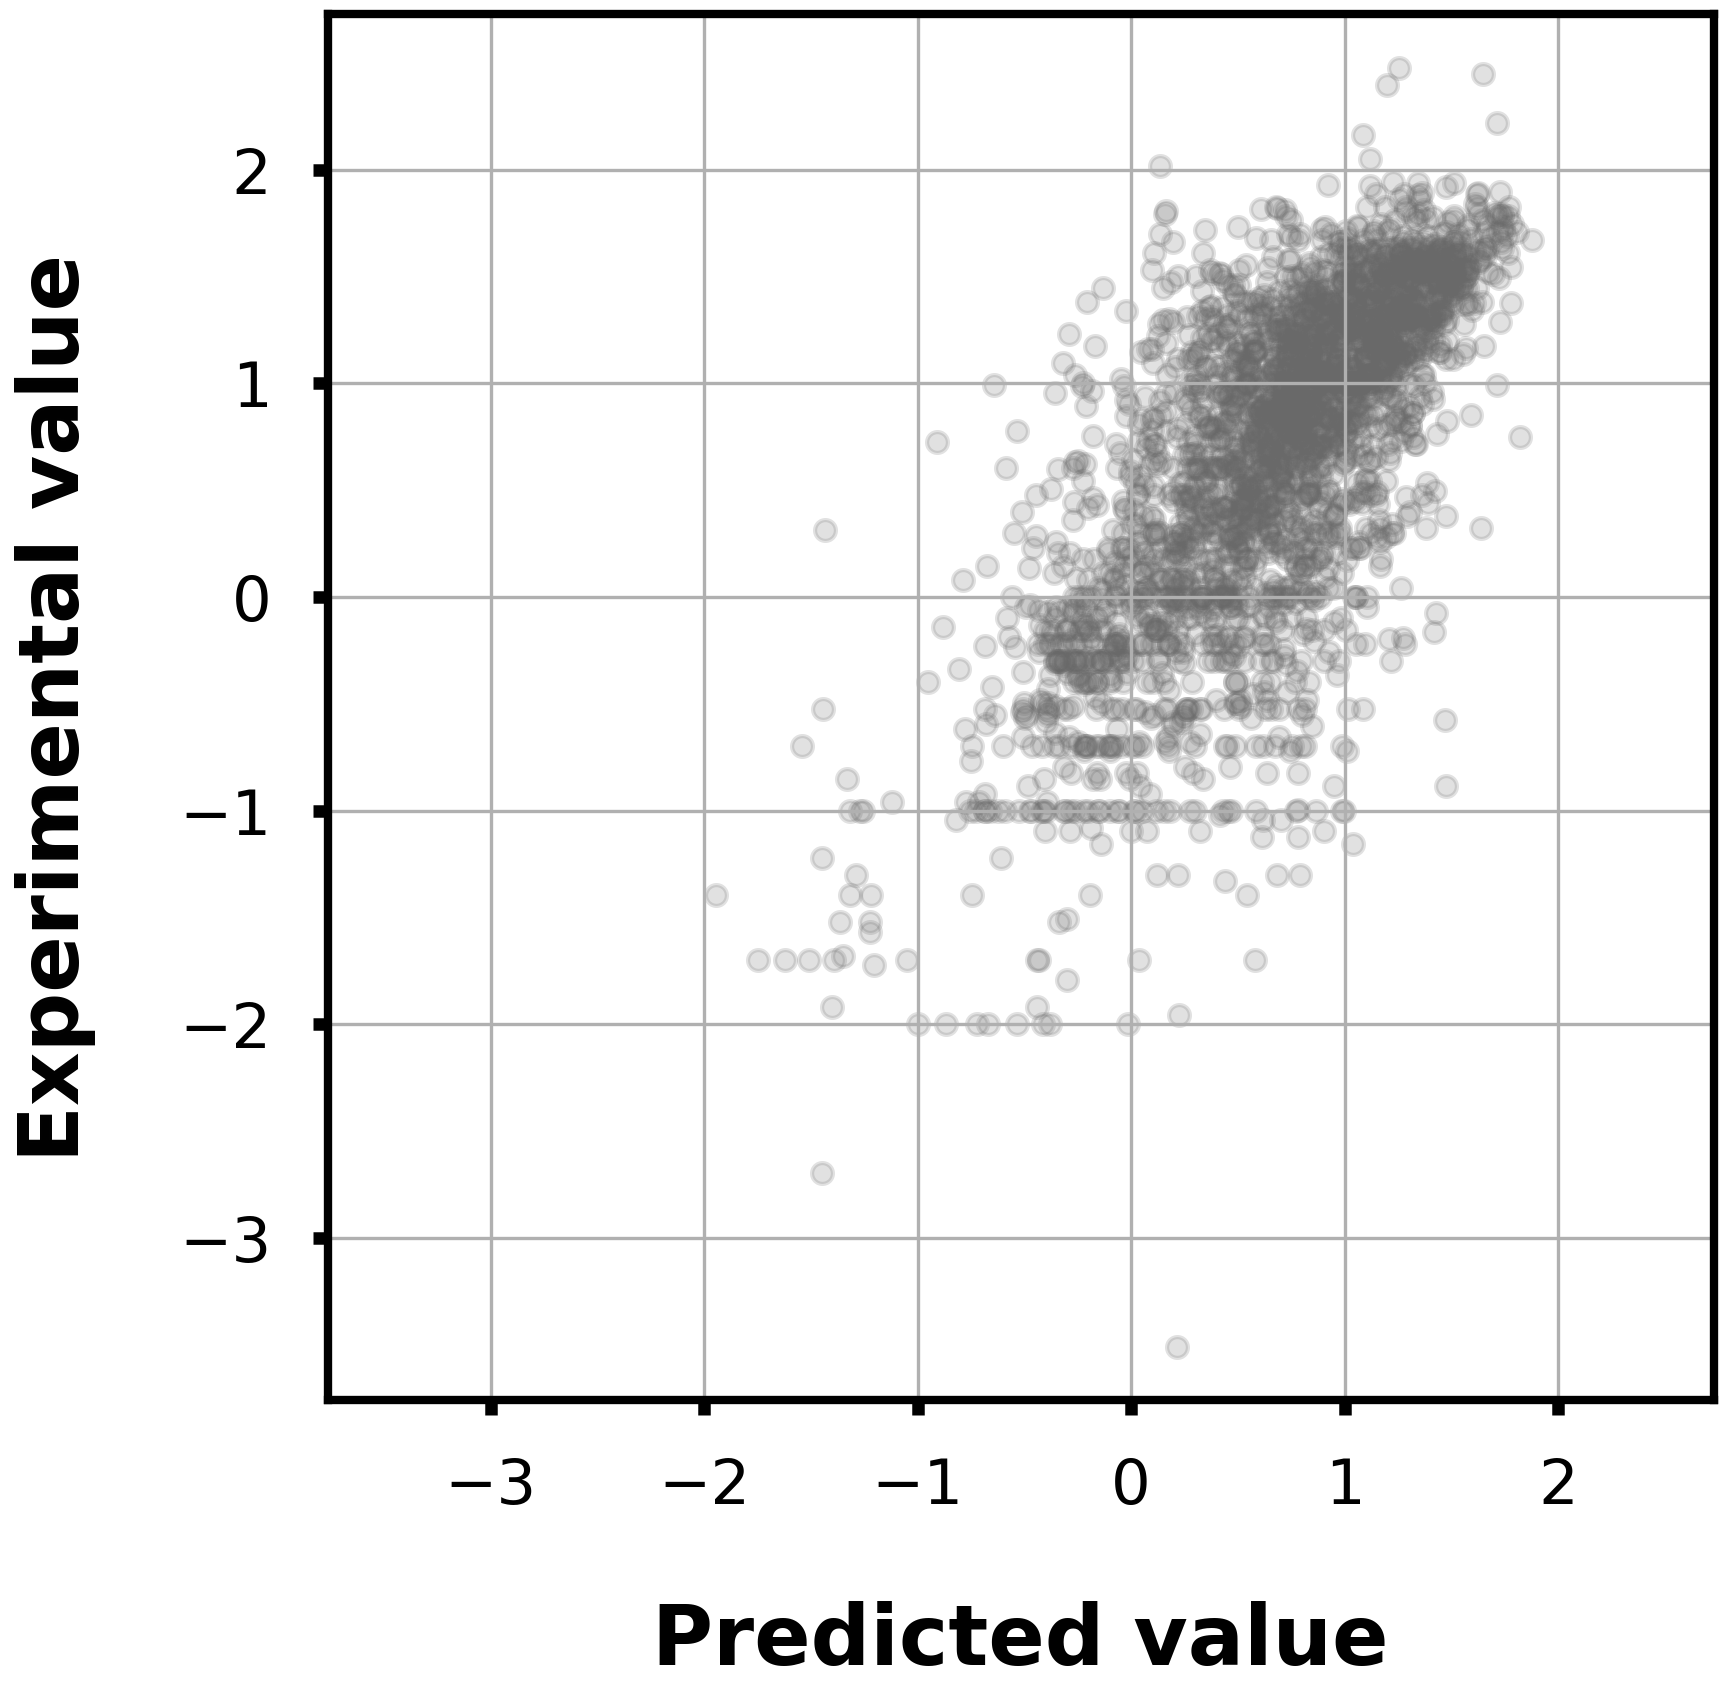
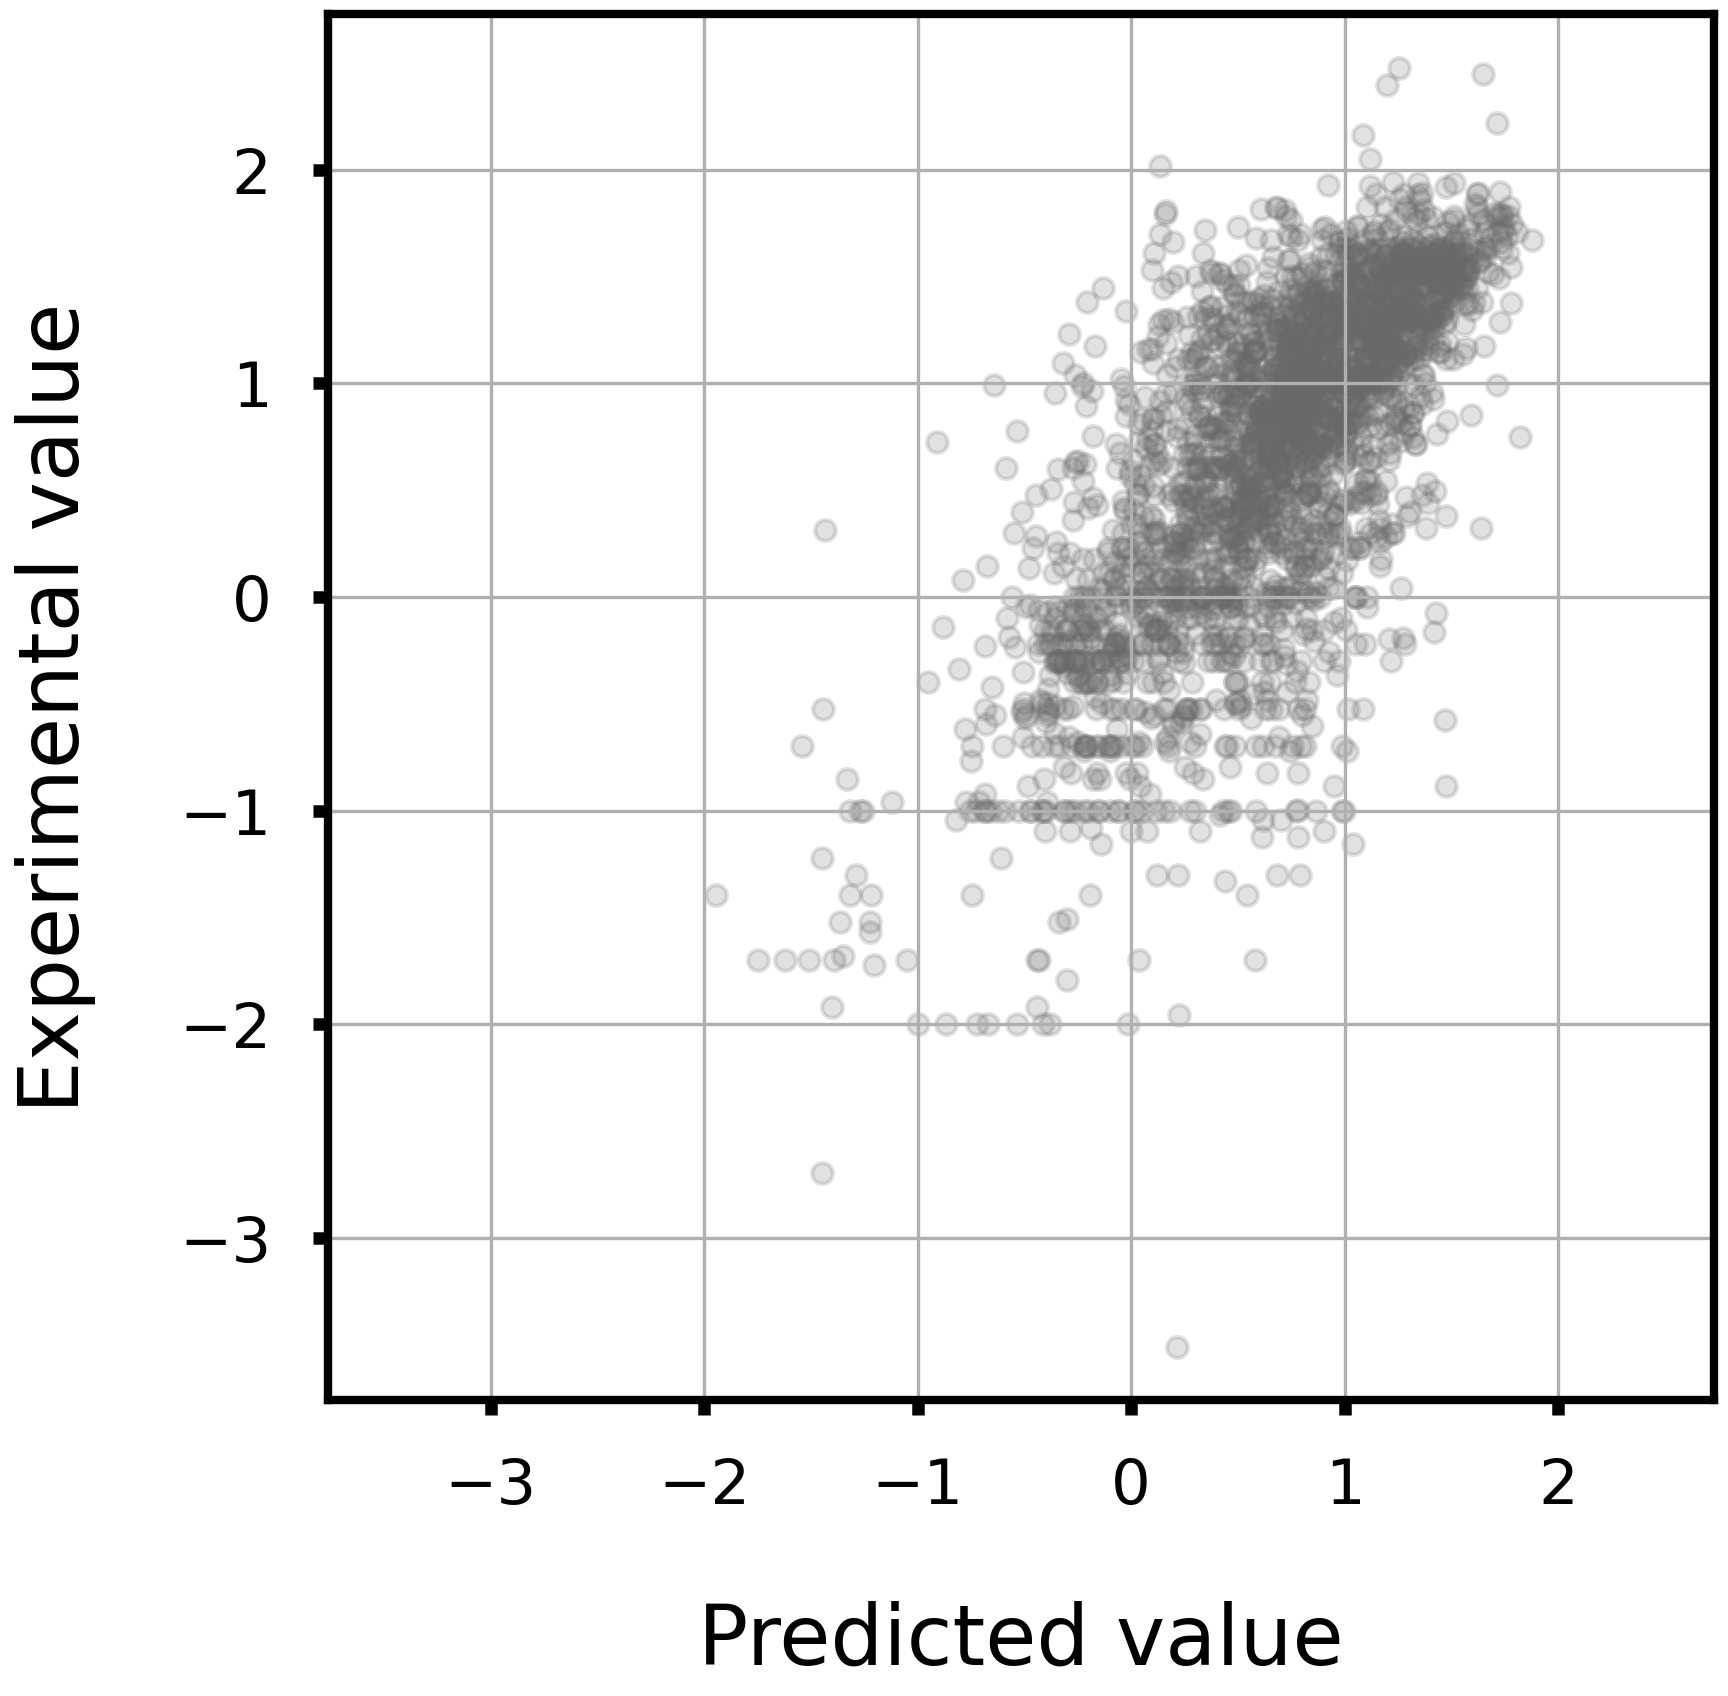
style: edit axis label name and weight

Changed region(s): [[0.0, 0.1562, 0.0625, 0.6875], [0.375, 0.9375, 0.8125, 1.0]]

diff --git a/ADMET/TDC/Toxicity/Acute_Toxicity_LD50/make_scatter_plot.py b/ADMET/TDC/Toxicity/Acute_Toxicity_LD50/make_scatter_plot.py
@@ -16,8 +16,8 @@ def make_scatter_plot(y_true, y_pred):
     min_val = min(min(y_true, y_pred, key=min))
     fig, ax = plt.subplots(figsize=(6, 6))
     ax.scatter(y_pred, y_true, marker='o', s=25, c='dimgray', alpha=0.2)
-    ax.set_xlabel('Predicted value', fontsize=20, labelpad=20, weight='bold')
-    ax.set_ylabel('Experimental value', fontsize=20, labelpad=20, weight='bold')
+    ax.set_xlabel('Predicted $\mathrm{LD_{50}}$', fontsize=20, labelpad=20, weight='normal')
+    ax.set_ylabel('Experimental $\mathrm{LD_{50}}$', fontsize=20, labelpad=20, weight='normal')
     ax.xaxis.set_tick_params(direction='out', labelsize=15, width=3, pad=10)
     ax.yaxis.set_tick_params(direction='out', labelsize=15, width=3, pad=10)
     ax.xaxis.set_major_locator(mpl.ticker.MultipleLocator(2))

diff --git a/ADMET/ChEMBL/Metabolism/HLM/make_scatter_plot.py b/ADMET/ChEMBL/Metabolism/HLM/make_scatter_plot.py
@@ -15,8 +15,8 @@ def make_scatter_plot(y_true, y_pred):
     min_val = min(min(y_true, y_pred, key=min))
     fig, ax = plt.subplots(figsize=(6, 6))
     ax.scatter(y_pred, y_true, marker='o', s=25, c='dimgray', alpha=0.2)
-    ax.set_xlabel('Predicted value', fontsize=20, labelpad=20, weight='bold')
-    ax.set_ylabel('Experimental value', fontsize=20, labelpad=20, weight='bold')
+    ax.set_xlabel('Predicted value', fontsize=20, labelpad=20, weight='normal')
+    ax.set_ylabel('Experimental value', fontsize=20, labelpad=20, weight='normal')
     ax.xaxis.set_tick_params(direction='out', labelsize=15, width=3, pad=10)
     ax.yaxis.set_tick_params(direction='out', labelsize=15, width=3, pad=10)
     ax.xaxis.set_major_locator(mpl.ticker.MultipleLocator(25))

diff --git a/ADMET/ChEMBL/Absorption/Caco-2/make_scatter_plot.py b/ADMET/ChEMBL/Absorption/Caco-2/make_scatter_plot.py
@@ -16,8 +16,8 @@ def make_scatter_plot(y_true, y_pred):
     min_val = min(min(y_true, y_pred, key=min))
     fig, ax = plt.subplots(figsize=(6, 6))
     ax.scatter(y_pred, y_true, marker='o', s=25, c='dimgray', alpha=0.2)
-    ax.set_xlabel('Predicted value', fontsize=20, labelpad=20, weight='bold')
-    ax.set_ylabel('Experimental value', fontsize=20, labelpad=20, weight='bold')
+    ax.set_xlabel('Predicted value', fontsize=20, labelpad=20, weight='normal')
+    ax.set_ylabel('Experimental value', fontsize=20, labelpad=20, weight='normal')
     ax.xaxis.set_tick_params(direction='out', labelsize=15, width=3, pad=10)
     ax.yaxis.set_tick_params(direction='out', labelsize=15, width=3, pad=10)
     ax.xaxis.set_major_locator(mpl.ticker.MultipleLocator(1))

diff --git a/ADMET/TDC/Absorption/Solubility/make_scatter_plot.py b/ADMET/TDC/Absorption/Solubility/make_scatter_plot.py
@@ -16,8 +16,8 @@ def make_scatter_plot(y_true, y_pred):
     min_val = min(min(y_true, y_pred, key=min))
     fig, ax = plt.subplots(figsize=(6, 6))
     ax.scatter(y_pred, y_true, marker='o', s=25, c='dimgray', alpha=0.2)
-    ax.set_xlabel('Predicted value', fontsize=20, labelpad=20, weight='bold')
-    ax.set_ylabel('Experimental value', fontsize=20, labelpad=20, weight='bold')
+    ax.set_xlabel('Predicted logS', fontsize=20, labelpad=20, weight='normal')
+    ax.set_ylabel('Experimental logS', fontsize=20, labelpad=20, weight='normal')
     ax.xaxis.set_tick_params(direction='out', labelsize=15, width=3, pad=10)
     ax.yaxis.set_tick_params(direction='out', labelsize=15, width=3, pad=10)
     ax.xaxis.set_major_locator(mpl.ticker.MultipleLocator(2))
